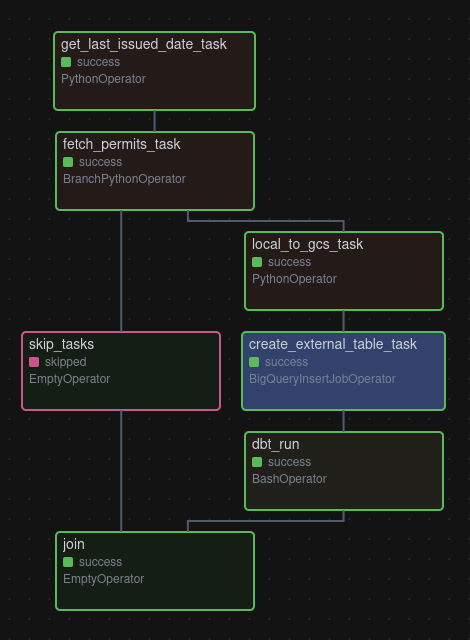
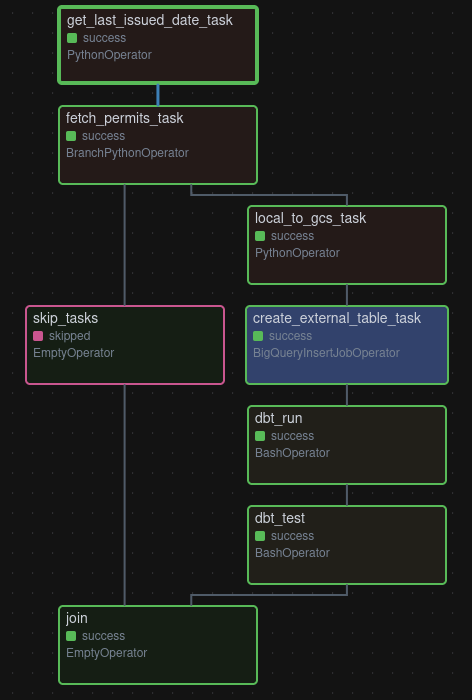
Add dbt tests and update README and images

Changed region(s): [[0.0298, 0.0, 0.9532, 1.0], [0.3574, 0.4375, 0.4766, 0.6562], [0.7745, 0.8125, 0.834, 0.8438]]

diff --git a/airflow/dags/data_ingestion_gcs_dag.py b/airflow/dags/data_ingestion_gcs_dag.py
@@ -243,10 +243,17 @@ with DAG(
     append_env=True,
   )
 
+  dbt_test = BashOperator(
+    task_id="dbt_test",
+    bash_command="/home/airflow/.local/bin/dbt test --project-dir /opt/airflow/dbt --profiles-dir /opt/airflow/dbt",
+    env={"GCP_PROJECT_ID": PROJECT_ID},
+    append_env=True,
+  )
+
   join = EmptyOperator(
     task_id="join",
     trigger_rule=TriggerRule.NONE_FAILED_MIN_ONE_SUCCESS)
 
   get_last_issued_date_task >> fetch_permits_task >> [local_to_gcs_task, skip]
-  local_to_gcs_task >> bq_create_external_table >> dbt_run >> join
+  local_to_gcs_task >> bq_create_external_table >> dbt_run >> dbt_test >> join
   skip >> join

diff --git a/README.md b/README.md
@@ -35,6 +35,8 @@ The next task, **fetch_permits_task**, handles the actual querying of the data f
 
 **dbt_run** runs two dbt models against the external table. The staging model (`stg_permits`) reads from the external table and casts/transforms the raw string columns: `issuance_date` is parsed to a timestamp, `permit_si_no` is cast to INT64, and `location_coordinates` is derived by concatenating `gis_latitude` and `gis_longitude`. The marts model (`permits`) is an incremental table partitioned by `issuance_date` and clustered by `gis_nta_name`, `job_type`, `borough`, and `block`. On each run it inserts only permits whose `permit_si_no` is not already present in the table, preventing duplicates.
 
+**dbt_test** runs data quality tests against the staging and marts models, verifying that `permit_si_no` is unique and not null and that `issuance_date` is not null. If any test fails, the pipeline is marked as failed.
+
 **skip_tasks** handles cases where there is no data returned by **fetch_permits_task**, which will happen often (like on weekends and holidays). **join** completes the graph and gives the two branches in the DAG a logical endpoint.
 
 The full DAG is illustrated below:
